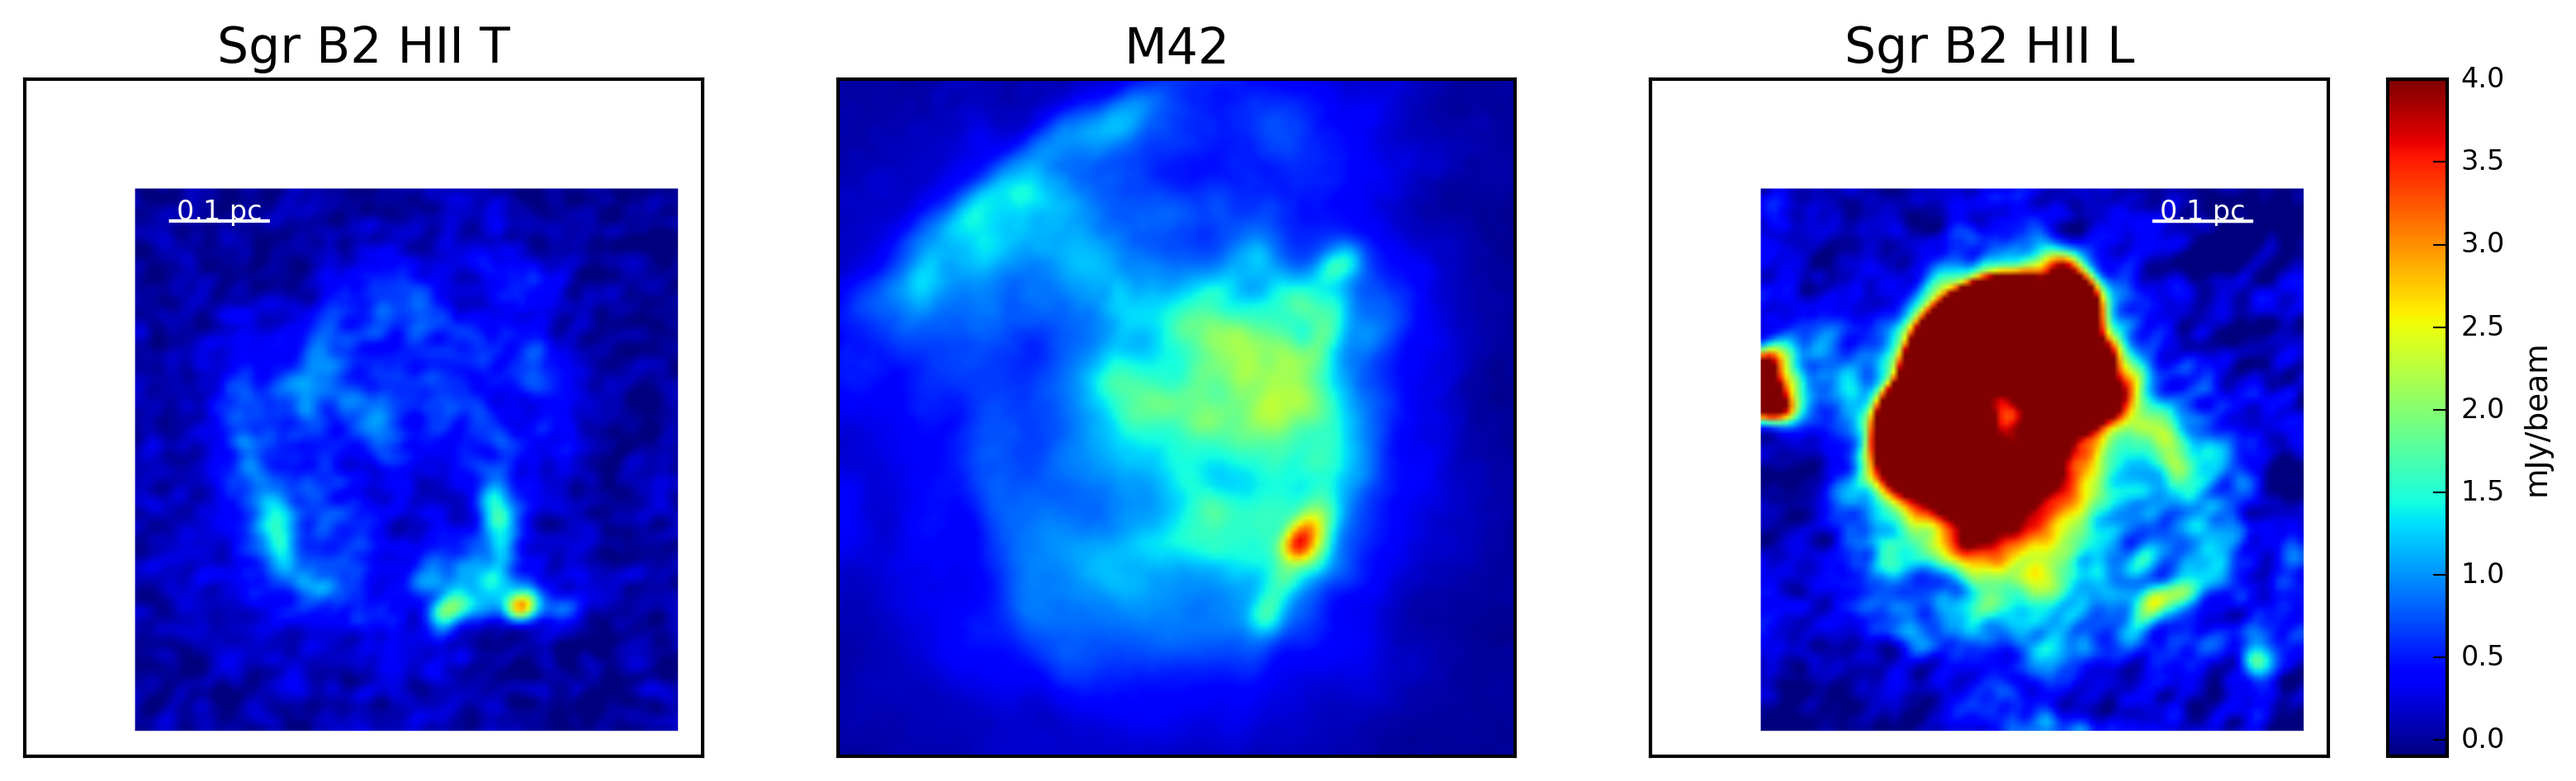
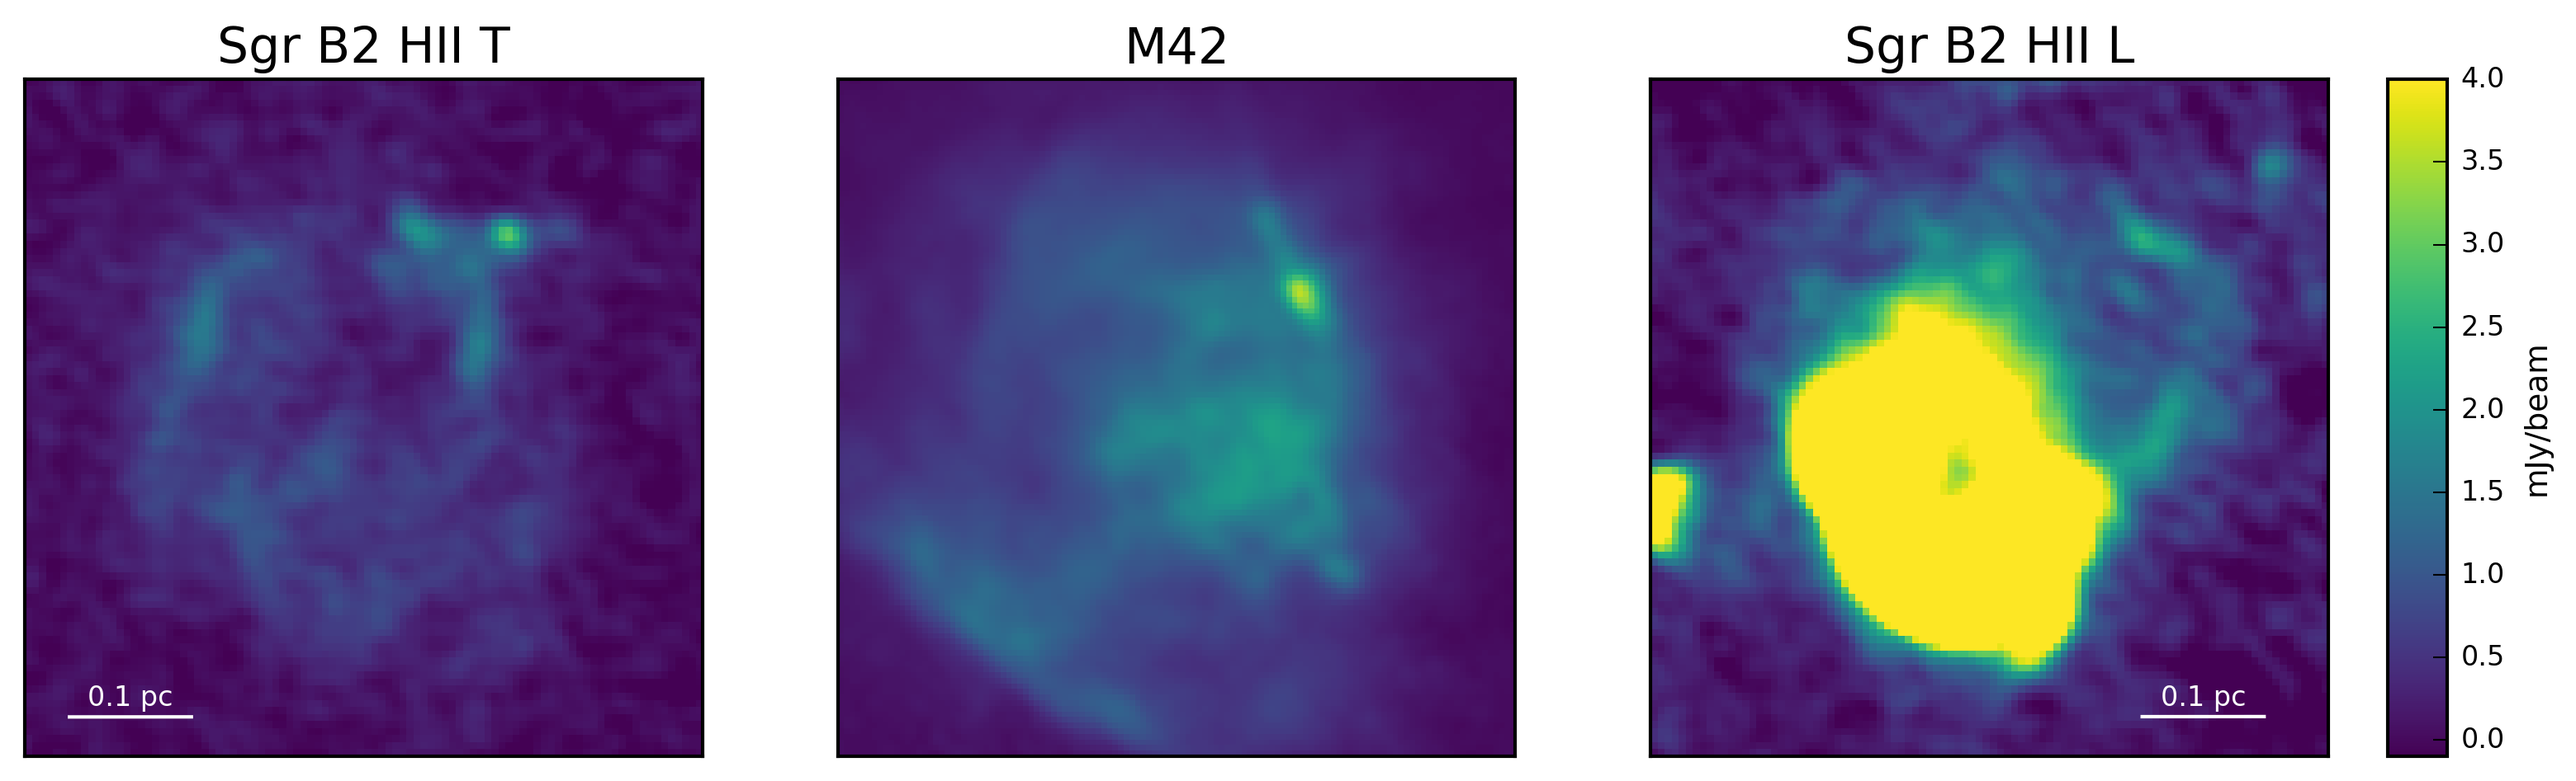
fix orion figure

diff --git a/plot_codes/compare_orion_SgrB2.py b/plot_codes/compare_orion_SgrB2.py
@@ -39,7 +39,8 @@ orion_cutout = Cutout2D(fh_o[0].data.squeeze(), orion_center,
 fig = pl.figure(1)
 fig.clf()
 ax = pl.subplot(1,3,1, projection=wcs.WCS(fh_s[0].header))
-pl.imshow(sgrb2_hii_T_cutout.data, vmin=-1e-1, vmax=4e-0)
+pl.imshow(sgrb2_hii_T_cutout.data, vmin=-1e-1, vmax=4e-0, cmap='viridis',
+          origin='lower', interpolation='nearest')
 pl.title("Sgr B2 HII T")
 hide_labels(ax)
 make_scalebar(ax, left_side=coordinates.SkyCoord('266d54m39s', '-28d27m48.5s',
@@ -50,13 +51,15 @@ make_scalebar(ax, left_side=coordinates.SkyCoord('266d54m39s', '-28d27m48.5s',
              )
 
 pl.subplot(1,3,2)
-pl.imshow(orion_cutout.data*(d_ori/d_sgr).decompose()**2, vmin=-1e-1, vmax=4e-0)
+pl.imshow(orion_cutout.data*(d_ori/d_sgr).decompose()**2, vmin=-1e-1,
+          vmax=4e-0, cmap='viridis', origin='lower', interpolation='nearest')
 pl.title("M42")
 pl.gca().get_xaxis().set_ticks([])
 pl.gca().get_yaxis().set_ticks([])
 
 ax = pl.subplot(1,3,3, projection=wcs.WCS(fh_s[0].header))
-im = ax.imshow(sgrb2_hii_L_cutout.data, vmin=-1e-1, vmax=4e-0)
+im = ax.imshow(sgrb2_hii_L_cutout.data, vmin=-1e-1, vmax=4e-0, cmap='viridis',
+               origin='lower', interpolation='nearest')
 ax.set_title("Sgr B2 HII L")
 hide_labels(ax)
 make_scalebar(ax, left_side=coordinates.SkyCoord('266d54m30s', '-28d27m48.5s',

diff --git a/tex_cores/sgrb2_cores.tex b/tex_cores/sgrb2_cores.tex
@@ -533,7 +533,7 @@ safe to conclude that all of our detected sources are MYSOs.
 \FigureOneCol{figures/Orion_SgrB2HII_side_by_side.png}
 {Comparison of two extended \hii regions in Sgr B2 to the M42 nebula in Orion.
 The three panels are shown on the same physical and color scale assuming
-$d_{Orion} = 415$ pc and $d_{Sgr B2} = 7.8$ kpc and that the ALMA and MUSTANG
+$d_{Orion} = 415$ pc and $d_{Sgr B2} = 8.4$ kpc and that the ALMA and MUSTANG
 data have the same continuum bandpass.  Sgr B2 \hii T is comparable in
 brightness and extent to M42; Sgr B2 \hii L is much brighter and is saturated
 on the displayed brightness scale.  The compact source to the top right of the
